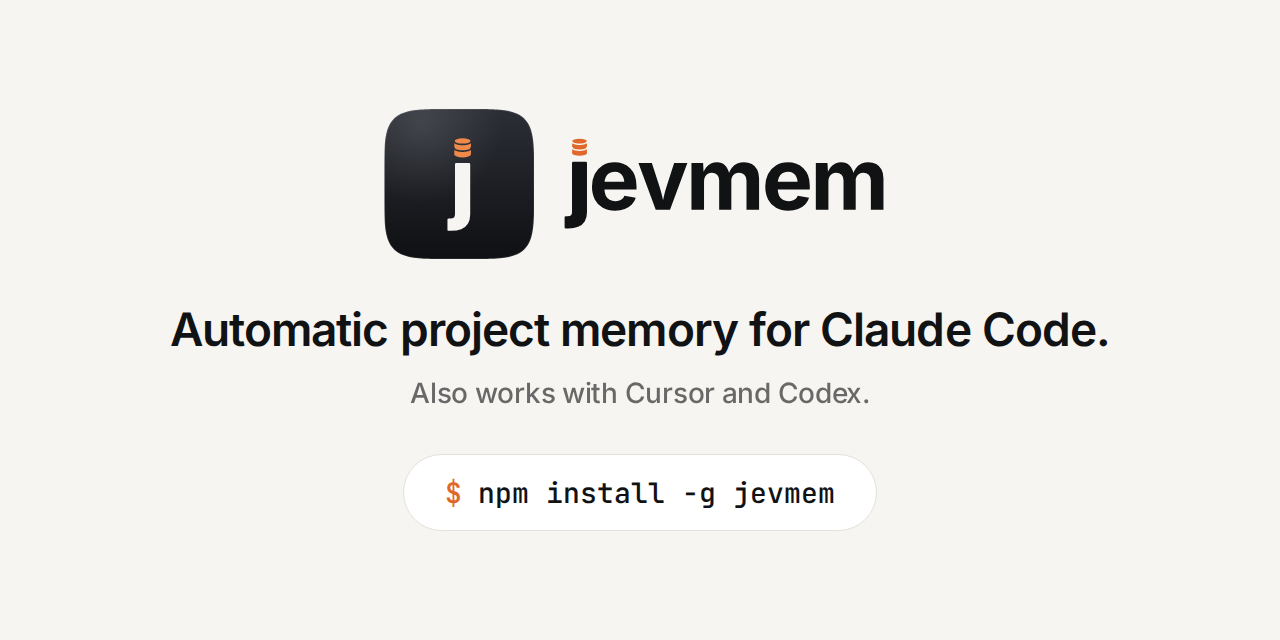
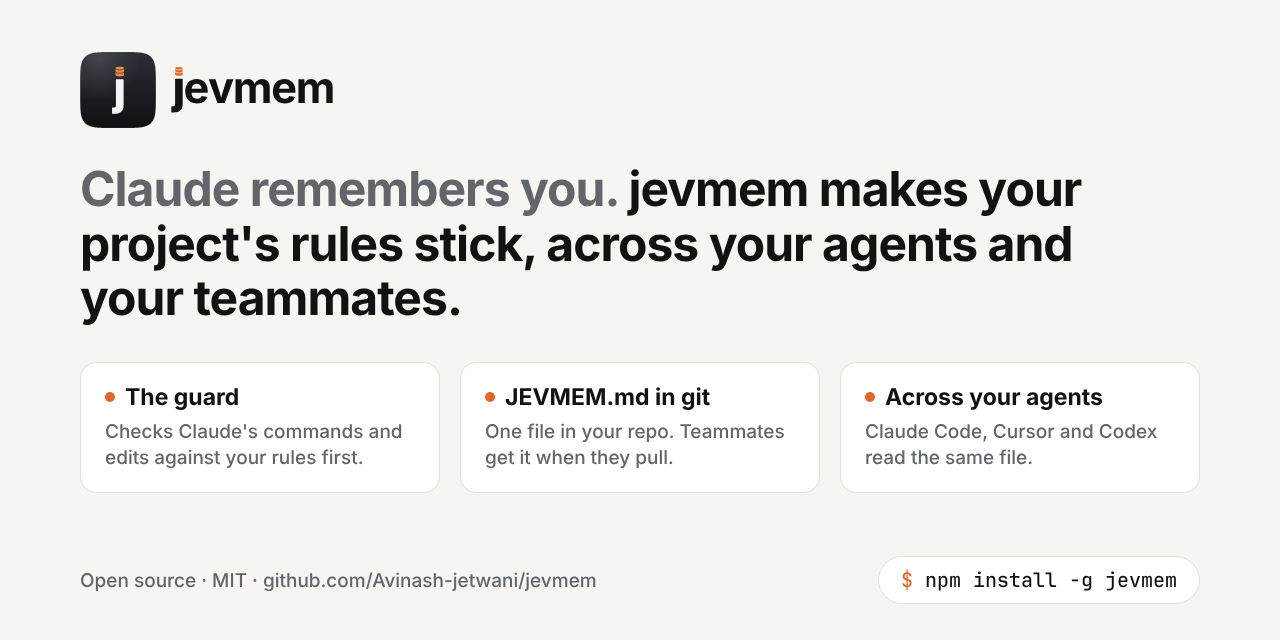
docs: three pages for common searches (Cursor rules across chats and teammates, stopping an agent from breaking project rules, CLAUDE.md or JEVMEM.md), llms.txt links them, the site's link-preview image carries the new pitch, and npm keywords for those searches

diff --git a/test/site.test.ts b/test/site.test.ts
@@ -27,7 +27,7 @@ beforeAll(() => {
 
 describe("the docs site", () => {
   it("has the pages the README links to, each a question with its answer first", () => {
-    expect(pages.map((p) => p.path)).toEqual(["/", "/claude-code-memory/", "/compare/", "/jev/", "/guard/", "/cursor/", "/pane/", "/codex/", "/claude-desktop/", "/install/", "/results/", "/privacy/", "/faq/", "/whats-new/"]);
+    expect(pages.map((p) => p.path)).toEqual(["/", "/claude-code-memory/", "/compare/", "/jev/", "/guard/", "/cursor/", "/pane/", "/codex/", "/claude-desktop/", "/install/", "/results/", "/privacy/", "/faq/", "/whats-new/", "/cursor-rules/", "/stop-rule-breaks/", "/claude-md-vs-jevmem/"]);
     for (const p of pages) {
       expect(p.title, p.path).toMatch(/\?$/);
       expect(p.answer.length, p.path).toBeGreaterThan(80);

diff --git a/site/pages/claude-md-vs-jevmem.md b/site/pages/claude-md-vs-jevmem.md
@@ -1,0 +1,40 @@
+---
+path: /claude-md-vs-jevmem/
+description: Use both. CLAUDE.md holds what you write by hand; JEVMEM.md holds the decisions, rules and failed approaches jevmem saves from your chats, read by Claude Code, Cursor and Codex and checked by the guard.
+order: 17
+---
+# Should I use CLAUDE.md or JEVMEM.md?
+
+Use both: keep in `CLAUDE.md` what you want to write and edit by hand, such as how to build and test the project, and let jevmem keep `JEVMEM.md`, the decisions, rules and failed approaches that come up in your chats, which it saves as you work, brings back when a prompt needs them, and checks Claude's commands against.
+
+In 72 real Claude Code sessions, Claude followed the project's saved decision in 66 with jevmem (66/72) and in 67 with the same lines in a hand-written `CLAUDE.md` (67/72), against 28 with no project memory (28/72) ([no memory and CLAUDE.md](../../results/ab-2026-09-28.json), [jevmem](../../results/ab-jevmem-2026-09-29-3b.json); [method and limits](results.md#does-claude-act-on-the-saved-line)). So the two did about as well; the difference is who writes the file and what reads it.
+
+## Side by side
+
+| | `CLAUDE.md` | `JEVMEM.md` |
+|---|---|---|
+| Who writes it | You, by hand | jevmem, from your chats; you can add, retire and mark lines |
+| What goes in it | Anything you choose | One line per decision, rule, failed approach, bug or to-do |
+| When Claude Code gets it | The whole file, at the start of each session | The lines a prompt needs, on every prompt; always-on rules at the start of each session |
+| Checked before a command or edit runs | No | Yes, by the guard |
+| Written for | Claude Code | Claude Code, Cursor and Codex, and Claude Desktop over MCP |
+| Shared with your team | Through git | Through git |
+| Needs a key | No | A paid TypeSafe API key |
+
+## When CLAUDE.md alone is enough
+
+If you already keep a `CLAUDE.md` up to date and work alone in Claude Code, it covers the decisions you remember to write down. jevmem helps when rules come up in chats and never reach the file, when teammates or other tools need the same rules, and when you want commands checked against them before they run.
+
+## Already have a CLAUDE.md?
+
+`jevmem import` splits `CLAUDE.md`, `AGENTS.md` and `.cursor/rules/*` into statements, puts each through the same check as a chat turn, and prints what it would add; `--apply` writes them. The source files are only read, so your `CLAUDE.md` stays as it is ([install](install.md)).
+
+## Rules every change must follow
+
+A rule like "every new string goes through `t()`" applies to work whose prompt never mentions it. `CLAUDE.md` is in every session, so it reaches Claude. jevmem marks such a rule always-on (since 0.7.1) and sends it at the start of every session: on six held-out tasks written for that case, Claude followed the convention in 18 of 18 sessions with 0.7.1, as with the same lines in a hand-kept `CLAUDE.md` ([results](../../results/ab-alwayson-v2-2026-10-13-v071.json)).
+
+## jevmem next to CLAUDE.md and Claude Code's auto memory
+
+{{include docs/how-it-works.md#how-this-differs-from-the-tools-own-memory}}
+
+The same comparison with other memory tools: [jevmem compared](compare.md).

diff --git a/site/pages/stop-rule-breaks.md b/site/pages/stop-rule-breaks.md
@@ -1,0 +1,32 @@
+---
+path: /stop-rule-breaks/
+description: Write the rule down where the agent reads it, and have something check each command and edit against it before it runs. jevmem's guard does that in Claude Code, from the rules in JEVMEM.md, and asks you first when one may break.
+order: 16
+---
+# How do I stop an AI coding agent from breaking my project's rules?
+
+Write each rule where the agent reads it at the start of the work, and have something check the agent's actions against the rules before they run: jevmem keeps the rules in `JEVMEM.md` in your repo, and in Claude Code its guard checks each command, file edit and file write against them and asks you first when one may break a rule.
+
+In real Claude Code sessions (0.7.7, checked by hand), a change a rule forbids was left in the code in 0 of 15 sessions with jevmem on, against 9 of 15 with no project memory ([results](../../results/ab-automem-2026-11-02-audit.json); [method](../../docs/benchmark.md#against-claude-codes-auto-memory-077)). On a held-out set of 274 tool calls, the guard caught 66 of 68 rule breaks ([results](../../results/guard-heldout-v2-2026-09-30-v061.json)).
+
+## Write the rule where the agent reads it
+
+A rule the agent never sees can't be followed. Claude Code reads `CLAUDE.md`, Cursor reads its Project Rules and `AGENTS.md`, and Codex reads `AGENTS.md`. jevmem saves the rules you state in chat ("don't hand-edit `db/migrations/`: those files are generated") as lines in `JEVMEM.md`, gives the ones a prompt needs back to Claude Code on every prompt, sends rules marked always-on at the start of every session, and lets Cursor's and Codex's agents look them up over MCP.
+
+## Check the action before it runs
+
+A rule in the context is a request; a check before the call is a second line. jevmem's guard runs as a Claude Code `PreToolUse` hook: before a Bash command, an Edit or a Write runs, it finds the saved rules the call may touch and asks Jev whether the call would break one. If so, Claude Code shows you the rule and asks:
+
+```text
+jevmem: this may break a saved rule: "Don't hand-edit db/migrations/: those files are generated." (JEVMEM.md)
+```
+
+In `block` mode, a call that breaks a rule you marked verified with `jevmem trust` does not run, and Claude is told to tell you about the rule instead of working around it. How the guard reads a call, its modes and its settings: [the guard](guard.md).
+
+## What it does not catch
+
+The guard is a backstop, not a sandbox. It looks at the words a rule and a call share, so a script or a make target that already exists and does the forbidden thing can be missed. It checks Claude Code's Bash, Edit and Write calls, not MCP tools or what a script changes when it runs, and it runs in Claude Code only: Cursor and Codex get the rules, not the check. Every limit: [the guard's limits](guard.md#limits).
+
+## Set it up
+
+{{include README.md#install}}

diff --git a/site/pages/cursor-rules.md b/site/pages/cursor-rules.md
@@ -1,0 +1,30 @@
+---
+path: /cursor-rules/
+description: Cursor's User Rules follow you to every project, and Project Rules in .cursor/rules travel with a repo. jevmem adds the rules you state in chat: it saves them to JEVMEM.md in the repo, which Cursor, Claude Code, Codex and your teammates read.
+order: 15
+---
+# How do I keep the same rules across Cursor chats, Claude Code and my teammates?
+
+Put the rules in a file that lives in the repository: Cursor's own Project Rules (`.cursor/rules`) and `AGENTS.md` do that for rules you write by hand, and jevmem does it for the rules you state in a chat, saving them as lines in `JEVMEM.md`, which Cursor, Claude Code and Codex read and your teammates get through git.
+
+## What Cursor gives you
+
+Cursor's [rules](https://cursor.com/docs/rules) come in four kinds: User Rules, set in Cursor's settings, which apply across all your projects; Project Rules, `.mdc` files in `.cursor/rules` that are committed with the code; Team Rules, managed from Cursor's dashboard on Team and Enterprise plans; and `AGENTS.md`, a plain Markdown file in the project. All of them are written by hand.
+
+## What jevmem adds
+
+A rule often comes up in the middle of a chat ("we use pnpm, not npm") and is never written into a rules file. With jevmem on in a project, Cursor's hooks save the decisions, rules and failed approaches from each finished agent turn to `JEVMEM.md` (since 0.7.4), and before a non-trivial task the agent looks up the project's lines with jevmem's `search_memory` tool, over MCP. The same file is read by Claude Code, where lines come back on every prompt and the guard checks each command and edit against the rules before it runs, and by Codex over MCP.
+
+In Cursor, on 10 held-out chats captured before the code was written (24 turns), jevmem paired 21 of 24 turns whole on the first run, and 24 of 24 after a reader fix, with what to save right in 21 of 24 ([first run](../../results/cursor-heldout-2026-10-16-v074.json); [how it was measured](cursor.md#what-was-measured)).
+
+## One file for each repository
+
+jevmem keeps memory per project: each repository has its own `JEVMEM.md`, and you turn jevmem on in each one with `jevmem setup`. The jevmem plugin for Cursor (0.7.6) runs in every Cursor window and stays silent in a project where jevmem is off. A rule you want in every project belongs in Cursor's User Rules; a rule for one codebase belongs in that codebase, where jevmem keeps it. Rules you already wrote can come in: `jevmem import` reads `.cursor/rules/*`, `AGENTS.md` and `CLAUDE.md`, prints what it would add, and writes it with `--apply`.
+
+## Which tools read it
+
+{{include README.md#works-with}}
+
+## Set it up in Cursor
+
+The plugin, the CLI and the per-project step: [jevmem in Cursor](cursor.md). The same file in Claude Code: [install](install.md).
